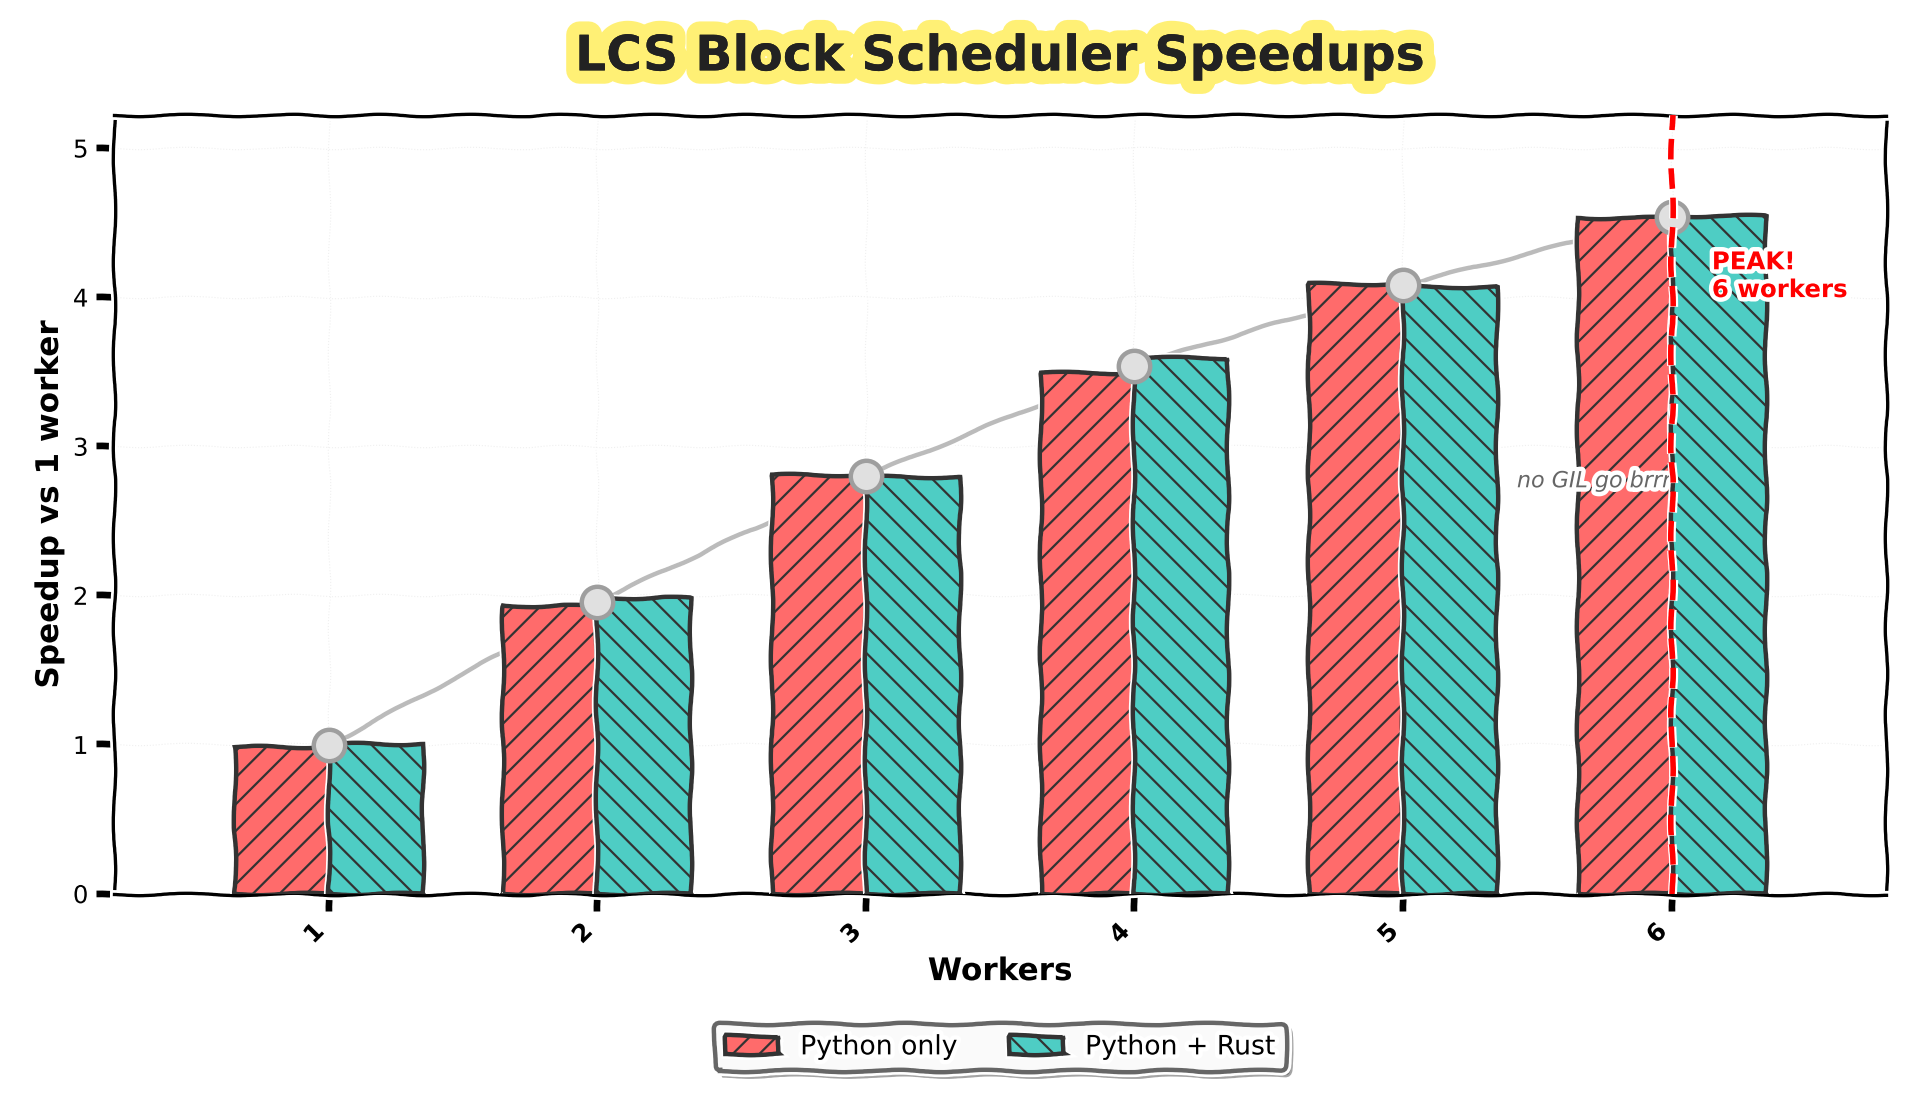
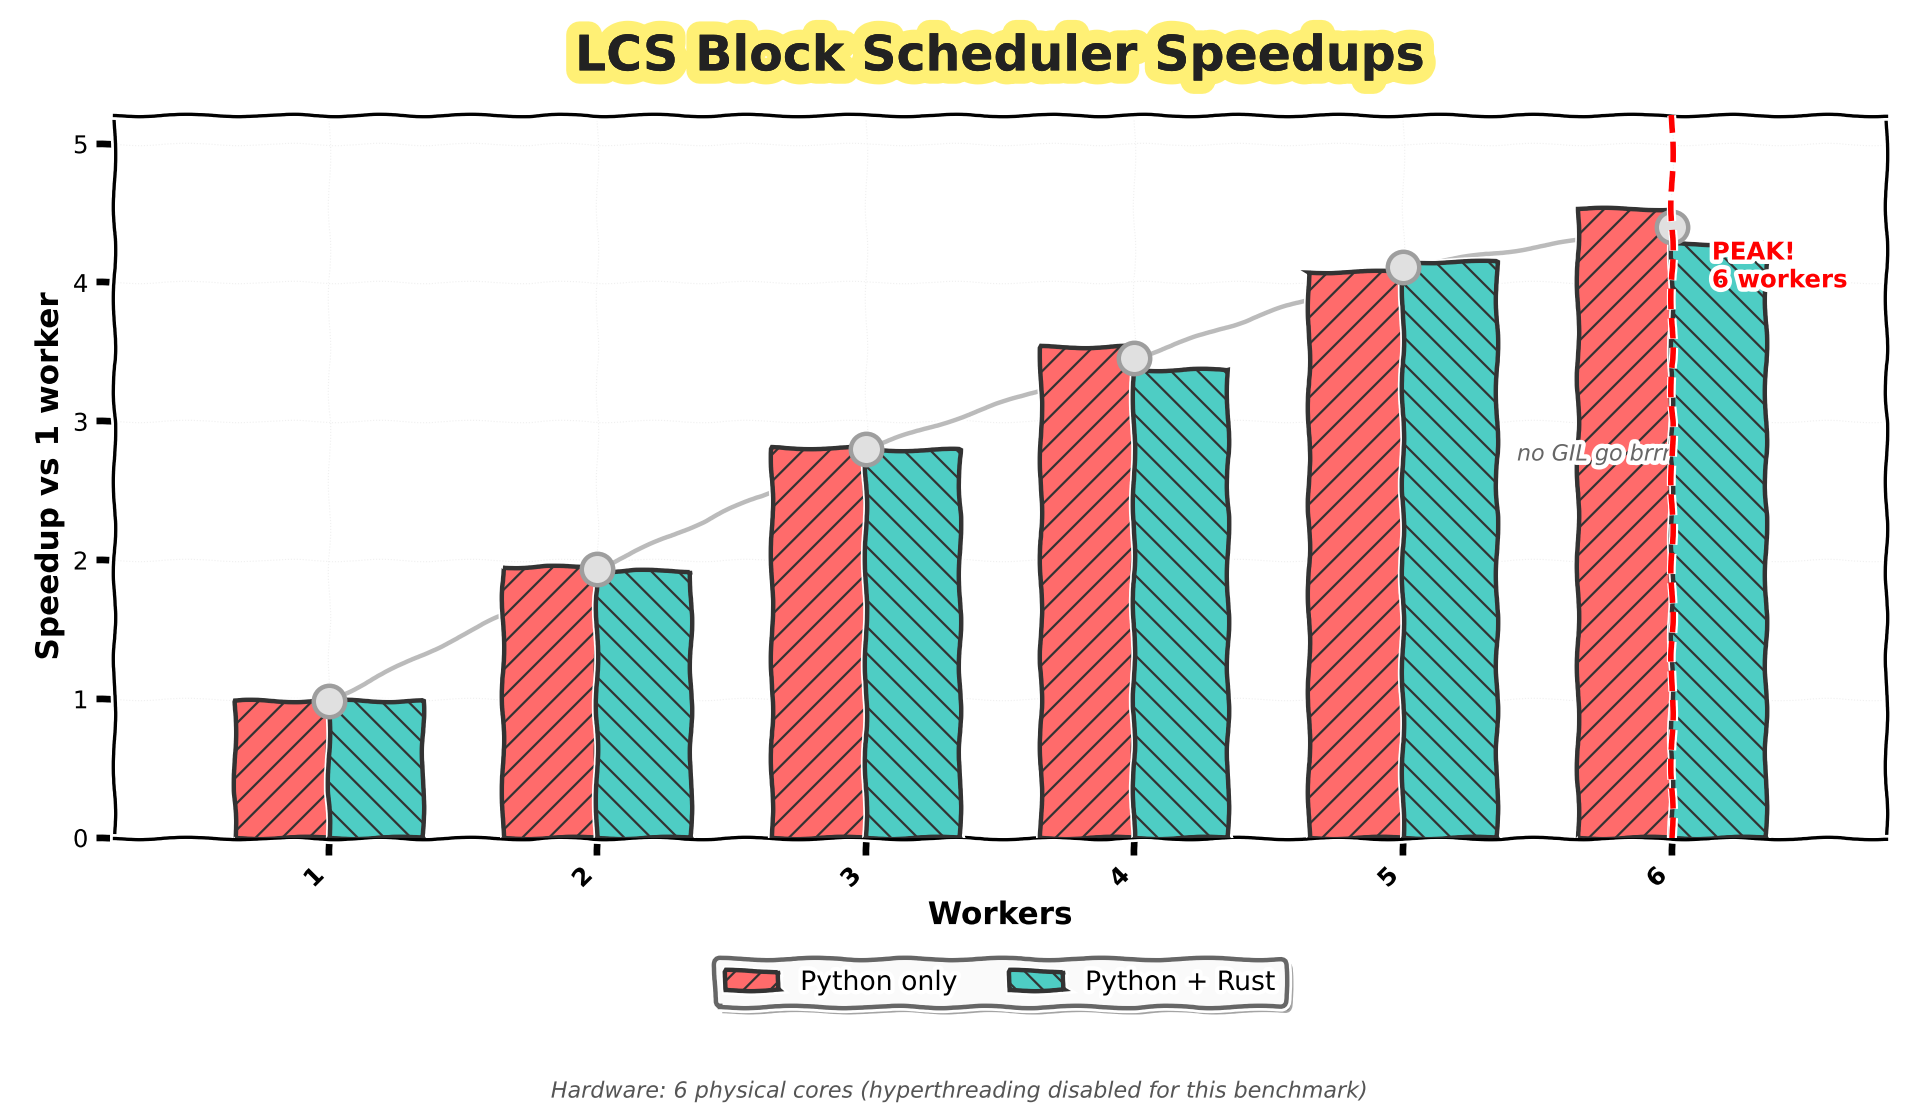
Add hardware caption to LCS speedup graph
🤖 Generated with [Claude Code](https://claude.com/claude-code)

diff --git a/examples/LCS/benchmark_lcs_speedups.py b/examples/LCS/benchmark_lcs_speedups.py
@@ -235,7 +235,18 @@ def plot_results(
         ax.set_xlim(0.2, max(worker_counts) + 0.8)
         ax.set_ylim(0, max_speedup * 1.15)
 
-        plt.tight_layout()
+        # Hardware caption
+        fig.text(
+            0.5,
+            0.02,
+            "Hardware: 6 physical cores (hyperthreading disabled for this benchmark)",
+            ha="center",
+            fontsize=10,
+            color="#555",
+            fontstyle="italic",
+        )
+
+        plt.tight_layout(rect=[0, 0.05, 1, 1])
         output_path.parent.mkdir(parents=True, exist_ok=True)
         plt.savefig(output_path, dpi=160, facecolor="white", edgecolor="none")
         plt.close()
